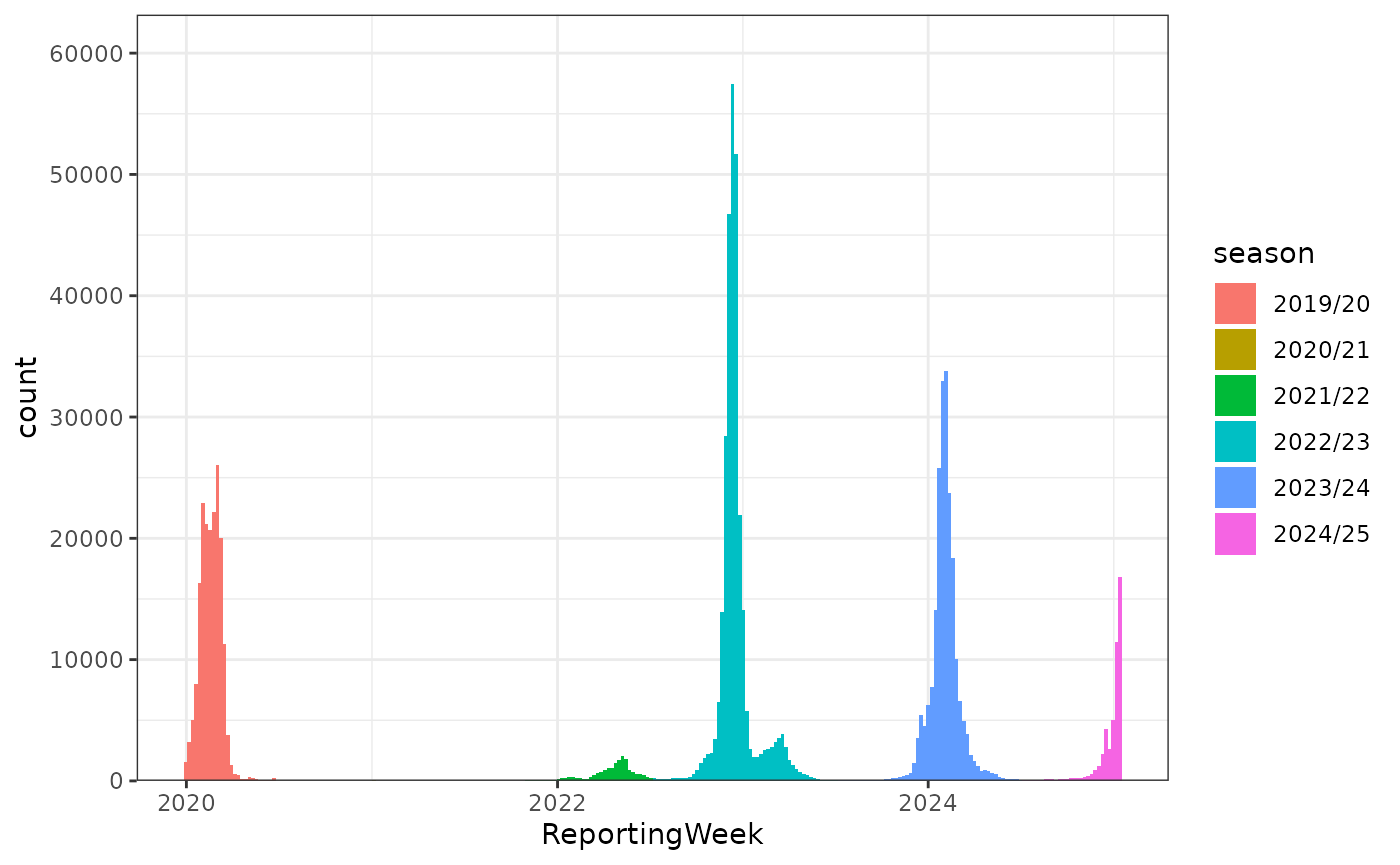
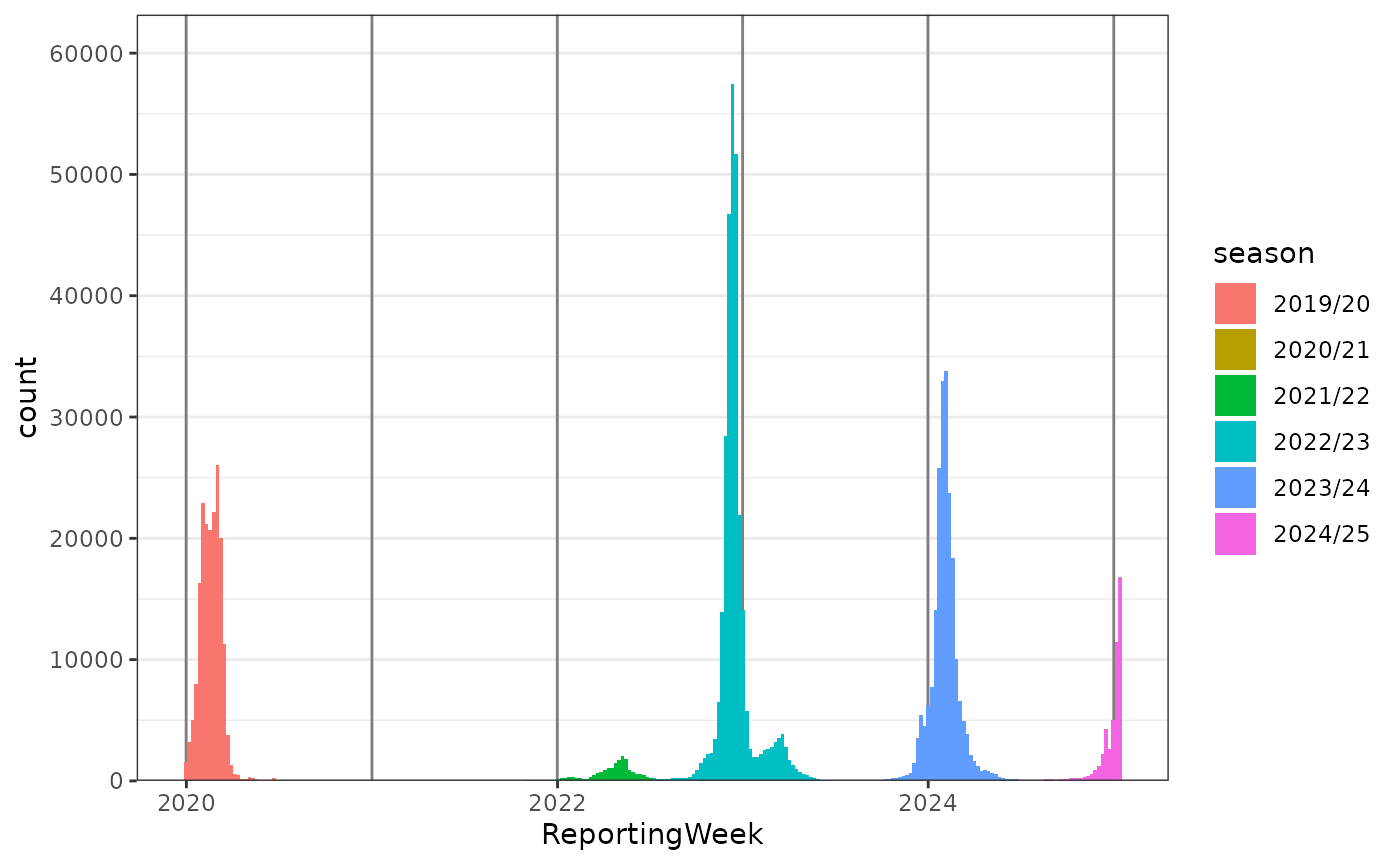
Deploying to gh-pages from @ biostats-dev/ggsurveillance@613ee5da4ed0f704e422566262c2118b7947e219 🚀

diff --git a/articles/Epicurves_with_ggsurveillance.html b/articles/Epicurves_with_ggsurveillance.html
@@ -72,6 +72,14 @@
 
     
     
+<div class="section level2">
+<h2 id="epi-curve-examples">Epi Curve examples<a class="anchor" aria-label="anchor" href="#epi-curve-examples"></a>
+</h2>
+<p>This vignette is still work in progress. But the examples are
+hopefully already helpful and inspiring.</p>
+<div class="section level3">
+<h3 id="ebola-outbreak-in-kikwit-democratic-republic-of-the-congo-1995">Ebola Outbreak in Kikwit, Democratic Republic of the Congo 1995<a class="anchor" aria-label="anchor" href="#ebola-outbreak-in-kikwit-democratic-republic-of-the-congo-1995"></a>
+</h3>
 <div class="sourceCode" id="cb1"><pre class="downlit sourceCode r">
 <code class="sourceCode R"><span><span class="fu"><a href="https://ggplot2.tidyverse.org/reference/ggplot.html" class="external-link">ggplot</a></span><span class="op">(</span><span class="fu">outbreaks</span><span class="fu">::</span><span class="va"><a href="https://rdrr.io/pkg/outbreaks/man/ebola_kikwit_1995.html" class="external-link">ebola_kikwit_1995</a></span>, <span class="fu"><a href="https://ggplot2.tidyverse.org/reference/aes.html" class="external-link">aes</a></span><span class="op">(</span>x <span class="op">=</span> <span class="va">date</span>, weight <span class="op">=</span> <span class="va">onset</span><span class="op">)</span><span class="op">)</span> <span class="op">+</span></span>
 <span>  <span class="fu"><a href="../reference/geom_epicurve.html">geom_epicurve</a></span><span class="op">(</span>date_resolution <span class="op">=</span> <span class="st">"week"</span><span class="op">)</span> <span class="op">+</span></span>
@@ -79,6 +87,10 @@
 <span>  <span class="fu"><a href="../reference/scale_y_cases_5er.html">scale_y_cases_5er</a></span><span class="op">(</span><span class="op">)</span> <span class="op">+</span></span>
 <span>  <span class="fu"><a href="https://ggplot2.tidyverse.org/reference/ggtheme.html" class="external-link">theme_bw</a></span><span class="op">(</span><span class="op">)</span></span></code></pre></div>
 <p><img src="Epicurves_with_ggsurveillance_files/figure-html/unnamed-chunk-2-1.png" width="700"></p>
+</div>
+<div class="section level3">
+<h3 id="sars-outbreak-in-canada-2003">SARS Outbreak in Canada 2003<a class="anchor" aria-label="anchor" href="#sars-outbreak-in-canada-2003"></a>
+</h3>
 <div class="sourceCode" id="cb2"><pre class="downlit sourceCode r">
 <code class="sourceCode R"><span><span class="fu">outbreaks</span><span class="fu">::</span><span class="va"><a href="https://rdrr.io/pkg/outbreaks/man/sars_canada_2003.html" class="external-link">sars_canada_2003</a></span> <span class="op">|&gt;</span></span>
 <span>  <span class="fu"><a href="https://tidyr.tidyverse.org/reference/pivot_longer.html" class="external-link">pivot_longer</a></span><span class="op">(</span><span class="fu"><a href="https://tidyselect.r-lib.org/reference/starts_with.html" class="external-link">starts_with</a></span><span class="op">(</span><span class="st">"cases"</span><span class="op">)</span>, names_prefix <span class="op">=</span> <span class="st">"cases_"</span>, names_to <span class="op">=</span> <span class="st">"origin"</span><span class="op">)</span> <span class="op">|&gt;</span></span>
@@ -87,6 +99,21 @@
 <span>  <span class="fu"><a href="../reference/scale_y_cases_5er.html">scale_y_cases_5er</a></span><span class="op">(</span><span class="op">)</span> <span class="op">+</span></span>
 <span>  <span class="fu"><a href="https://ggplot2.tidyverse.org/reference/ggtheme.html" class="external-link">theme_bw</a></span><span class="op">(</span><span class="op">)</span></span></code></pre></div>
 <p><img src="Epicurves_with_ggsurveillance_files/figure-html/unnamed-chunk-3-1.png" width="700"></p>
+</div>
+</div>
+<div class="section level2">
+<h2 id="influenza-data-from-germany-2020-2025">Influenza Data from Germany 2020-2025<a class="anchor" aria-label="anchor" href="#influenza-data-from-germany-2020-2025"></a>
+</h2>
+<ul>
+<li>
+<code><a href="../reference/align_dates_seasonal.html">align_dates_seasonal()</a></code> defines the influenza
+seasons</li>
+<li>
+<code><a href="../reference/geom_vline_year.html">geom_vline_year()</a></code> marks the turn of the years</li>
+<li>
+<code><a href="../reference/scale_y_cases_5er.html">scale_y_cases_5er()</a></code> creates a y-axis with more ticks
+and aligns 0 with the x-axis.</li>
+</ul>
 <div class="sourceCode" id="cb3"><pre class="downlit sourceCode r">
 <code class="sourceCode R"><span><span class="va">influenza_germany</span> <span class="op">|&gt;</span></span>
 <span>  <span class="co"># Keep Age Groups 00-14, 15-59, 60+</span></span>
@@ -94,10 +121,12 @@
 <span>  <span class="co"># Calc Influenza Seasons</span></span>
 <span>  <span class="fu"><a href="../reference/align_dates_seasonal.html">align_dates_seasonal</a></span><span class="op">(</span>dates_from <span class="op">=</span> <span class="va">ReportingWeek</span><span class="op">)</span> <span class="op">|&gt;</span></span>
 <span>  <span class="fu"><a href="https://ggplot2.tidyverse.org/reference/ggplot.html" class="external-link">ggplot</a></span><span class="op">(</span><span class="fu"><a href="https://ggplot2.tidyverse.org/reference/aes.html" class="external-link">aes</a></span><span class="op">(</span>x <span class="op">=</span> <span class="va">ReportingWeek</span>, weight <span class="op">=</span> <span class="va">Cases</span>, fill <span class="op">=</span> <span class="va">season</span><span class="op">)</span><span class="op">)</span> <span class="op">+</span> <span class="co"># , weight = Cases</span></span>
+<span>  <span class="fu"><a href="../reference/geom_vline_year.html">geom_vline_year</a></span><span class="op">(</span>color <span class="op">=</span> <span class="st">"grey50"</span><span class="op">)</span> <span class="op">+</span></span>
 <span>  <span class="fu"><a href="../reference/geom_epicurve.html">geom_epicurve</a></span><span class="op">(</span>color <span class="op">=</span> <span class="cn">NA</span>, stat <span class="op">=</span> <span class="st">"bin_date"</span>, date_resolution <span class="op">=</span> <span class="st">"week"</span><span class="op">)</span> <span class="op">+</span></span>
 <span>  <span class="fu"><a href="../reference/scale_y_cases_5er.html">scale_y_cases_5er</a></span><span class="op">(</span><span class="op">)</span> <span class="op">+</span></span>
 <span>  <span class="fu"><a href="https://ggplot2.tidyverse.org/reference/ggtheme.html" class="external-link">theme_bw</a></span><span class="op">(</span><span class="op">)</span></span></code></pre></div>
-<p><img src="Epicurves_with_ggsurveillance_files/figure-html/unnamed-chunk-4-1.png" width="700"></p>
+<p><img src="Epicurves_with_ggsurveillance_files/figure-html/unnamed-chunk-4-1.png" width="700">
+## Extra</p>
 <div class="sourceCode" id="cb4"><pre class="downlit sourceCode r">
 <code class="sourceCode R"><span><span class="va">influenza_germany</span> <span class="op">|&gt;</span></span>
 <span>  <span class="co"># Calc Influenza Seasons</span></span>
@@ -108,7 +137,9 @@
 <span>  <span class="fu"><a href="https://ggplot2.tidyverse.org/reference/facet_wrap.html" class="external-link">facet_wrap</a></span><span class="op">(</span><span class="op">~</span><span class="va">AgeGroup</span><span class="op">)</span> <span class="op">+</span></span>
 <span>  <span class="fu"><a href="https://ggplot2.tidyverse.org/reference/ggtheme.html" class="external-link">theme_bw</a></span><span class="op">(</span><span class="op">)</span></span></code></pre></div>
 <p><img src="Epicurves_with_ggsurveillance_files/figure-html/unnamed-chunk-5-1.png" width="700"></p>
-  </main>
+</div>
+  </main><aside class="col-md-3"><nav id="toc" aria-label="Table of contents"><h2>On this page</h2>
+    </nav></aside>
 </div>
 
 

diff --git a/articles/Epigantt_with_ggsurveillance.html b/articles/Epigantt_with_ggsurveillance.html
@@ -72,6 +72,15 @@
 
     
     
+<div class="section level2">
+<h2 id="epigantt-examples">EpiGantt examples<a class="anchor" aria-label="anchor" href="#epigantt-examples"></a>
+</h2>
+<p>This vignette is still work in progress. But the examples are
+hopefully already helpful and inspiring.</p>
+<p>Epi Gantt plots are used to visualize exposure times in infectious
+disease outbreaks. Hospital outbreaks are a common example for their
+use. Lying times of patients on different wards can be visualized and
+potential transmission routes identified.</p>
 <div class="sourceCode" id="cb1"><pre class="downlit sourceCode r">
 <code class="sourceCode R"><span><span class="fu">outbreaks</span><span class="fu">::</span><span class="va"><a href="https://rdrr.io/pkg/outbreaks/man/varicella_sim_berlin.html" class="external-link">varicella_sim_berlin</a></span> <span class="op">|&gt;</span></span>
 <span>  <span class="fu"><a href="https://rdrr.io/r/stats/filter.html" class="external-link">filter</a></span><span class="op">(</span><span class="va">center1</span> <span class="op">==</span> <span class="st">"Platz der Luftbruecke"</span><span class="op">)</span> <span class="op">|&gt;</span></span>
@@ -99,6 +108,7 @@
 <span>  <span class="fu"><a href="https://ggplot2.tidyverse.org/reference/scale_date.html" class="external-link">scale_x_date</a></span><span class="op">(</span>date_breaks <span class="op">=</span> <span class="st">"2 weeks"</span>, date_labels <span class="op">=</span> <span class="st">"W%V'%G"</span><span class="op">)</span> <span class="op">+</span></span>
 <span>  <span class="fu"><a href="https://ggplot2.tidyverse.org/reference/ggtheme.html" class="external-link">theme_bw</a></span><span class="op">(</span><span class="op">)</span></span></code></pre></div>
 <p><img src="Epigantt_with_ggsurveillance_files/figure-html/unnamed-chunk-3-1.png" width="700"></p>
+</div>
   </main>
 </div>
 

diff --git a/articles/align_dates_seasonal.html b/articles/align_dates_seasonal.html
@@ -72,10 +72,17 @@
 
     
     
-<div class="section level2">
-<h2 id="the-seasonal-plot">The seasonal plot<a class="anchor" aria-label="anchor" href="#the-seasonal-plot"></a>
-</h2>
-<p><img src="align_dates_seasonal_files/figure-html/unnamed-chunk-2-1.png" width="700"></p>
+<div class="section level3">
+<h3 id="the-seasonal-plot">The seasonal plot<a class="anchor" aria-label="anchor" href="#the-seasonal-plot"></a>
+</h3>
+<p>This vignette is still work in progress. But the examples are
+hopefully already helpful and inspiring.</p>
+<p>The seasonal plot is a commonly used plot for seasonal respiratory
+pathogens like Influenza and RSV. For seasons covering the turn of the
+year have to be defined. In a second step the previous seasons have to
+be aligned to the current season to allow for a comparison. Here we show
+how this is automated using <code>ggsurveillance</code>.
+<img src="align_dates_seasonal_files/figure-html/unnamed-chunk-2-1.png" width="700"></p>
 </div>
 <div class="section level2">
 <h2 id="seasonal-alignment-and-plot">Seasonal alignment and plot<a class="anchor" aria-label="anchor" href="#seasonal-alignment-and-plot"></a>

diff --git a/index.html b/index.html
@@ -81,7 +81,7 @@
 </li>
 <li><p><code><a href="reference/align_dates_seasonal.html">align_dates_seasonal()</a></code> : Align surveillance data for seasonal plots (e.g. flu season).</p></li>
 <li><p><code><a href="reference/create_agegroups.html">create_agegroups()</a></code>: Create reproducible age groups with highly customizable labels.</p></li>
-<li><p><code><a href="reference/geom_epigantt.html">geom_epigantt()</a></code> : A geom for epigantt plots. Helpful to visualize overlapping time intervals for contact tracing. (Beta)</p></li>
+<li><p><code><a href="reference/geom_epigantt.html">geom_epigantt()</a></code> : A geom for epigantt plots. Helpful to visualize overlapping time intervals for contact tracing (i.e. hospital outbraks). (Beta)</p></li>
 <li><p>and more: <code><a href="reference/geometric_mean.html">geometric_mean()</a></code> , <code><a href="reference/uncount.html">expand_counts()</a></code>,</p></li>
 </ul>
 <div class="section level2">
